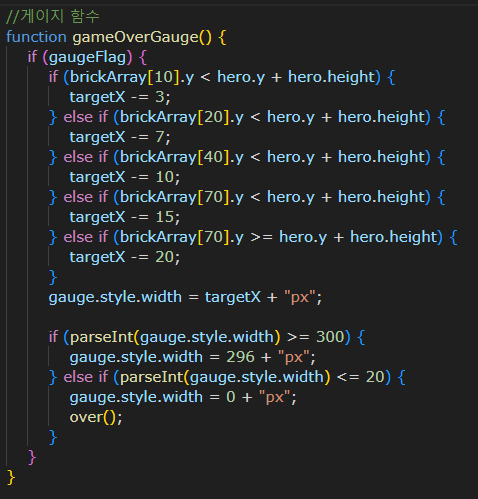
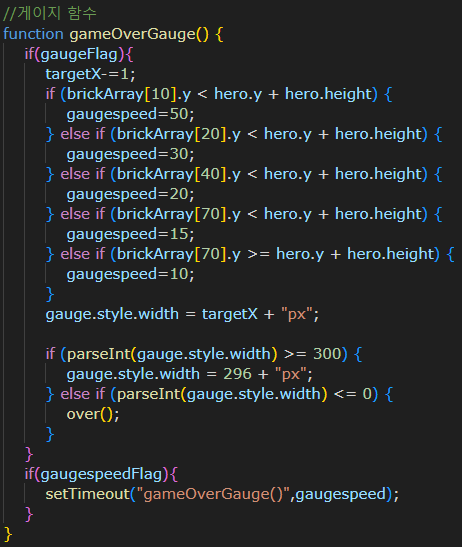
최종본

Changed region(s): [[0.0, 0.0, 1.0, 0.992]]

diff --git a/무한의 계단 최종 copy.html b/무한의 계단 최종 copy.html
@@ -115,7 +115,9 @@
         let meetCoinCount = -1;
         let coinimg;
         let coinbox;
-
+        let gaugespeed=100;
+        let gaugespeedFlag=true;
+        
 
         //주인공의 위치를 알아보는 함수
         function getHeroXYInMap() {
@@ -142,7 +144,6 @@
             //주인공이 밟고 있고 벽돌의  위치 조사 및 배열의 값 조사
             let footIndex = map1[y_map + 1][x_map];
             //console.log(footIndex);
-
             if (footIndex == !1) {
                 over();
                 score.innerText = count - 1;
@@ -187,6 +188,7 @@
                 startFlag = false;
             }
         }
+
         //오르기 함수
         function moveUp(n, p, z) {
             count++;
@@ -267,26 +269,29 @@
 
         //게이지 함수
         function gameOverGauge() {
-            if (gaugeFlag) {
+            if(gaugeFlag){
+                targetX-=1;
                 if (brickArray[10].y < hero.y + hero.height) {
-                    targetX -= 3;
+                    gaugespeed=50;
                 } else if (brickArray[20].y < hero.y + hero.height) {
-                    targetX -= 7;
+                    gaugespeed=30;
                 } else if (brickArray[40].y < hero.y + hero.height) {
-                    targetX -= 10;
+                    gaugespeed=20;
                 } else if (brickArray[70].y < hero.y + hero.height) {
-                    targetX -= 15;
+                    gaugespeed=15;
                 } else if (brickArray[70].y >= hero.y + hero.height) {
-                    targetX -= 20;
+                    gaugespeed=10;
                 }
                 gauge.style.width = targetX + "px";
 
                 if (parseInt(gauge.style.width) >= 300) {
                     gauge.style.width = 296 + "px";
                 } else if (parseInt(gauge.style.width) <= 0) {
-                    gauge.style.width = 0 + "px";
                     over();
                 }
+            }
+            if(gaugespeedFlag){
+                setTimeout("gameOverGauge()",gaugespeed);
             }
         }
         
@@ -318,6 +323,7 @@
                     }
                 }
             }
+            
             //키보드 조작 키 생성
             change = new GameObject(stage, "./images/change.png", 90, 90, 20, 550, 0, 0);
             up = new GameObject(stage, "./images/up.png", 90, 90, 300, 550, 0, 0);
@@ -352,6 +358,7 @@
             createGameObject();
             getHeroXYInMap();
             createGauge();
+            gameOverGauge();
         }
 
         function loop() {
@@ -366,8 +373,7 @@
         addEventListener("load", function () {
             init();
             setInterval("loop()", 10);
-            setInterval("gameOverGauge()", 300);
-
+            
             document.body.addEventListener("keydown", function (e) {
                 //console.log(e.keyCode);
                 switch (e.keyCode) {
@@ -391,14 +397,14 @@
                         if (gameFlag) {
                             gaugeFlag = true;
                             moveUp(60, 30, 20);
-                            targetX += 7;
+                            targetX += 10;
                         };
                         break;
                     case 32:
                         if (gameFlag) {
                             gaugeFlag = true;
                             moveChange(flag = !flag);
-                            targetX += 7;
+                            targetX += 10;
                         };
                         break;
                     case 27:
